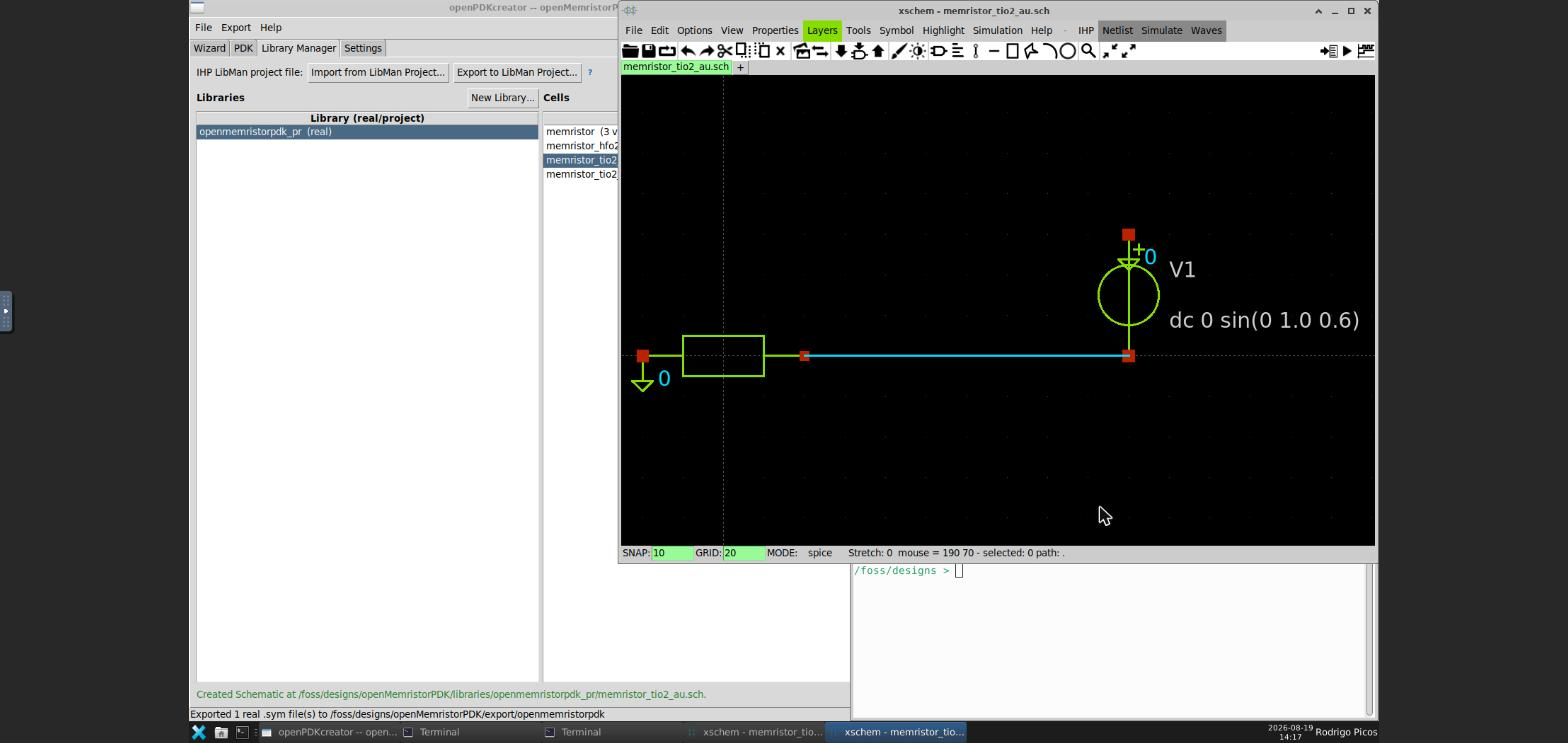
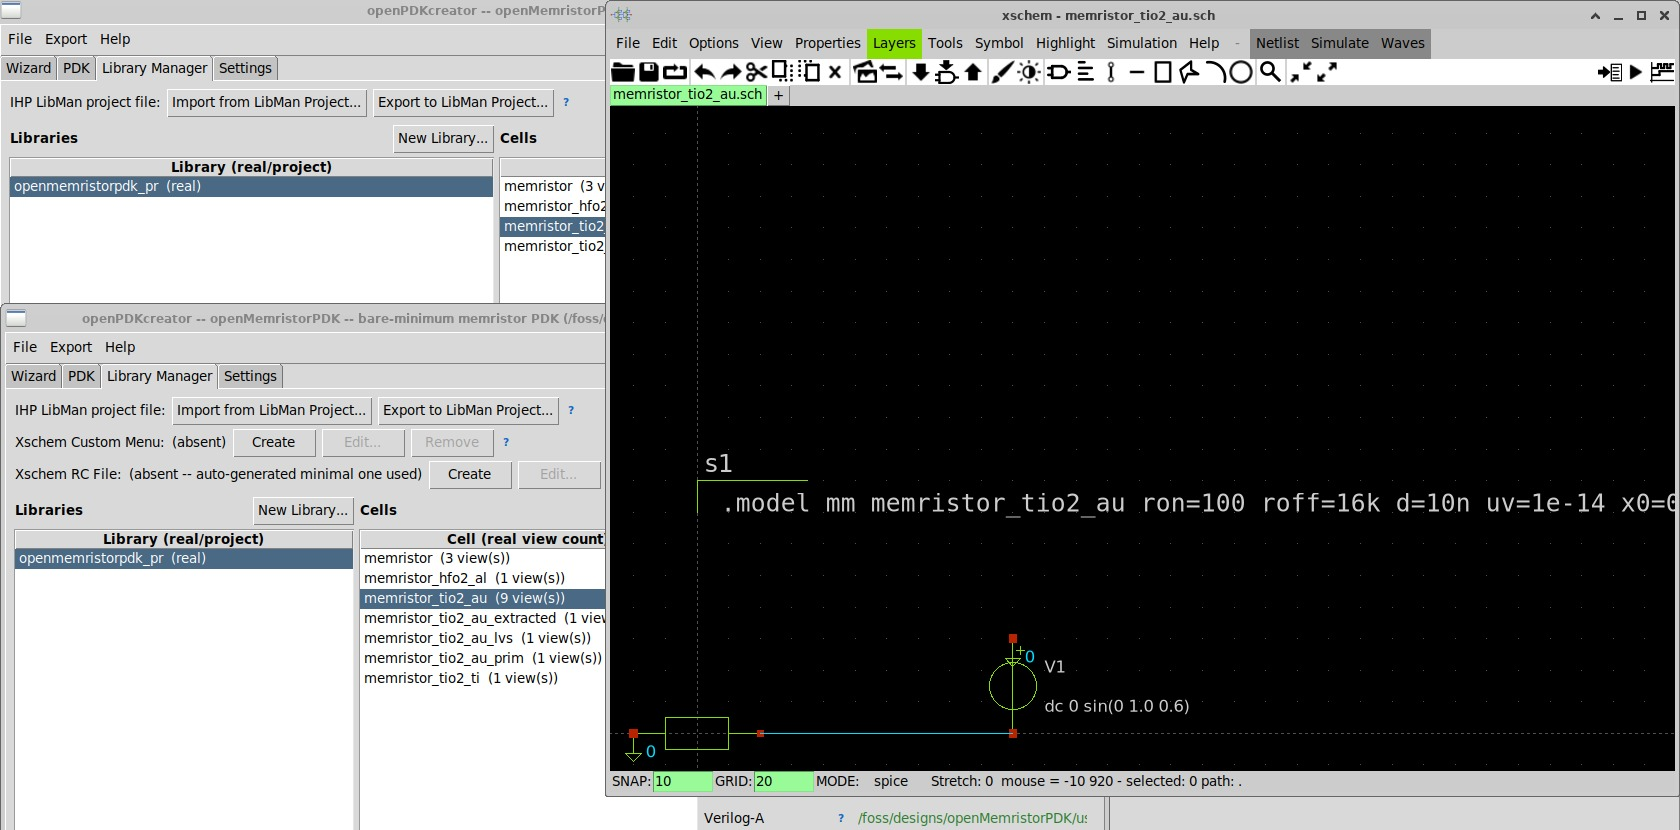
docs: fix stale xschem screenshots showing the now-fixed IHP menu bug
Both xschem_memristor_symbol.jpg and xschem_memristor_schematic.jpg
(walkthrough_full.tex, Steps 24/26) were captured before this
session's --rcfile fix and literally showed IHP's own spurious menu
in the menu bar. Regenerated live through the actual, fixed
_open_xschem GUI path -- no IHP menu, correct real launch command
visible in the status bar. Updated Step 24's caption to describe the
real, current --rcfile mechanism instead of the stale "xschem <path>"
claim.

Also added a small consistency note to digital_aspects.tex's Step 6
(Open in Magic) describing the explicit tech load line, even though
that deck's own real Magic screenshot was already correct.

diff --git a/docs/presentation/walkthrough_full.tex b/docs/presentation/walkthrough_full.tex
@@ -582,12 +582,17 @@ with the two real pins positioned at \texttt{(-40,0)} (BE) and
 % ---------------------------------------------------------------
 \begin{frame}{Step 24 -- opening it in real xschem}
 \begin{center}
-\includegraphics[width=0.55\textwidth]{figures/xschem_memristor_symbol.jpg}
+\includegraphics[width=0.6\textwidth]{figures/xschem_memristor_symbol.jpg}
 \end{center}
 \footnotesize
 Confirmed by actually launching real xschem on the exported file, the
-same way the Library Manager's own \textbf{Open in xschem} action
-does it: \texttt{xschem <path>}, run from the project root.
+same way the Library Manager's own \textbf{Open in xschem} action does
+it: \texttt{xschem --rcfile <rcfile> <path>}, where \texttt{<rcfile>}
+points \texttt{XSCHEM\_LIBRARY\_PATH} at this project's own real
+symbol library -- never the dev container's own global default (a
+real, found-and-fixed bug: that default silently pointed at IHP's own
+PDK instead, visible as a spurious ``IHP'' menu in an earlier real
+screenshot here, now gone).
 \end{frame}
 
 % ---------------------------------------------------------------

diff --git a/docs/presentation/digital_aspects.tex b/docs/presentation/digital_aspects.tex
@@ -181,7 +181,11 @@ libraries/openmemristorpdk_pr/memristor_tio2_au.mag
 Unlike every other view kind, this one is deliberately \emph{not}
 editable in this GUI -- real polygon drawing needs real Magic itself.
 The row's own \textbf{Open in Magic} button, used next, launches it
-already pointed at this exact real file.
+already pointed at this exact real file -- with an explicit, generated
+\texttt{tech load <path>} line naming this project's own real
+technology by name, not left to Magic's own CWD-based
+\texttt{.magicrc} auto-sourcing (which has no real equivalent for a
+from-scratch project with none of its own).
 \end{frame}
 
 % ---------------------------------------------------------------
